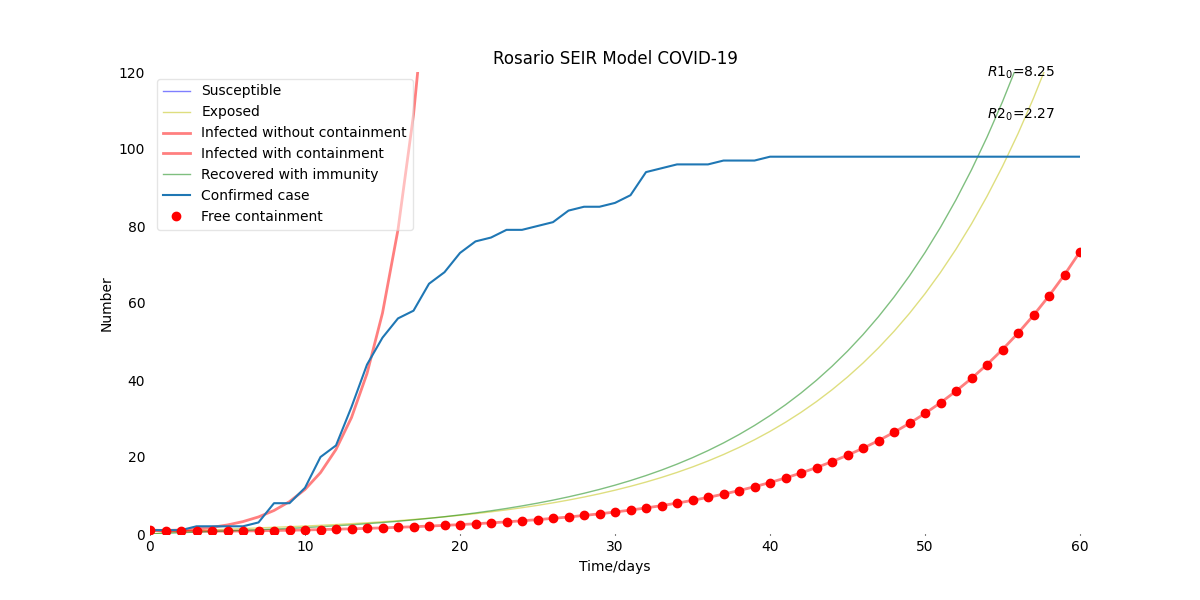
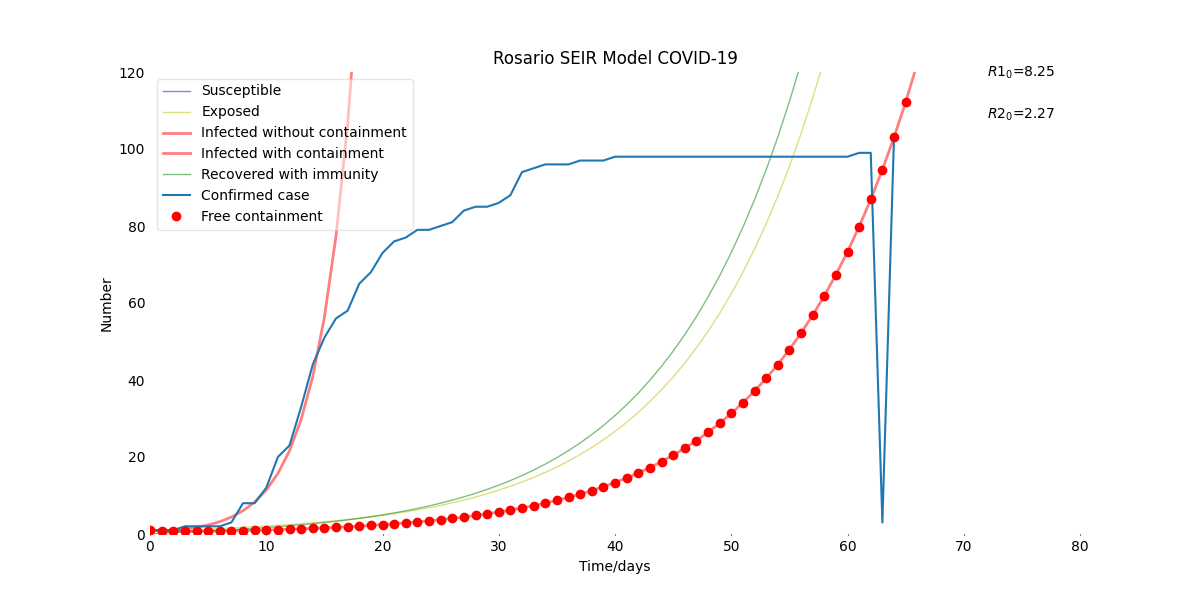
Update data

diff --git a/SEIR-model/test_SEIR-model.py b/SEIR-model/test_SEIR-model.py
@@ -66,7 +66,7 @@ def predict(chart_number, last_day , last_infected, last_exposed):
           x_axis = 240 
        elif k == 2:
           y_axis = 120
-          x_axis = 60
+          x_axis = 80
 
        # Grid of time
 
